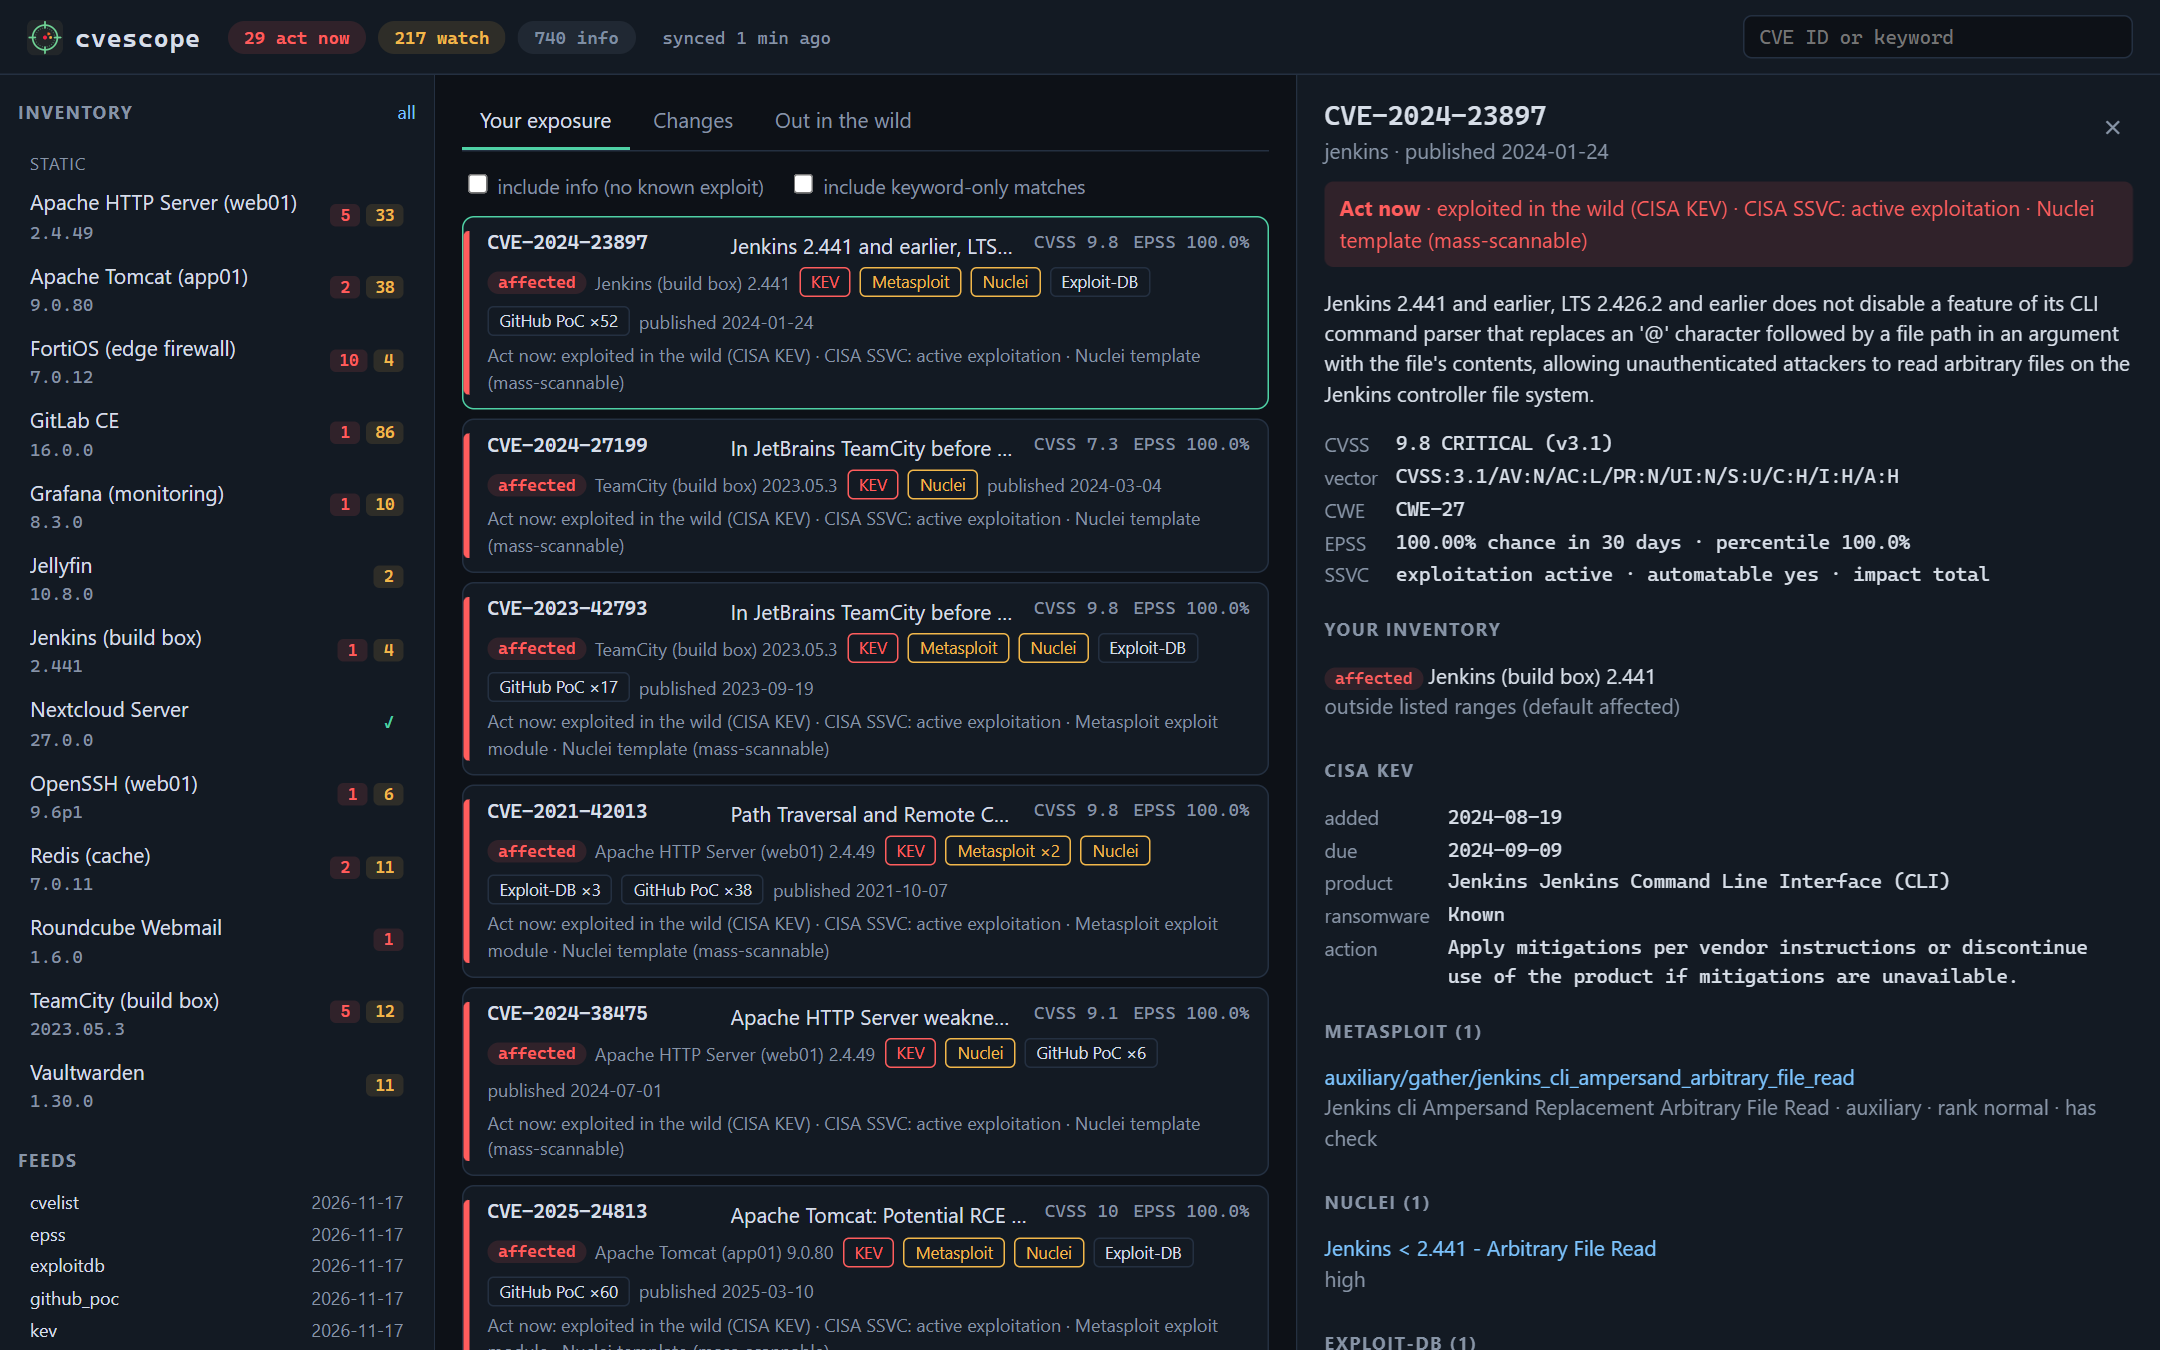
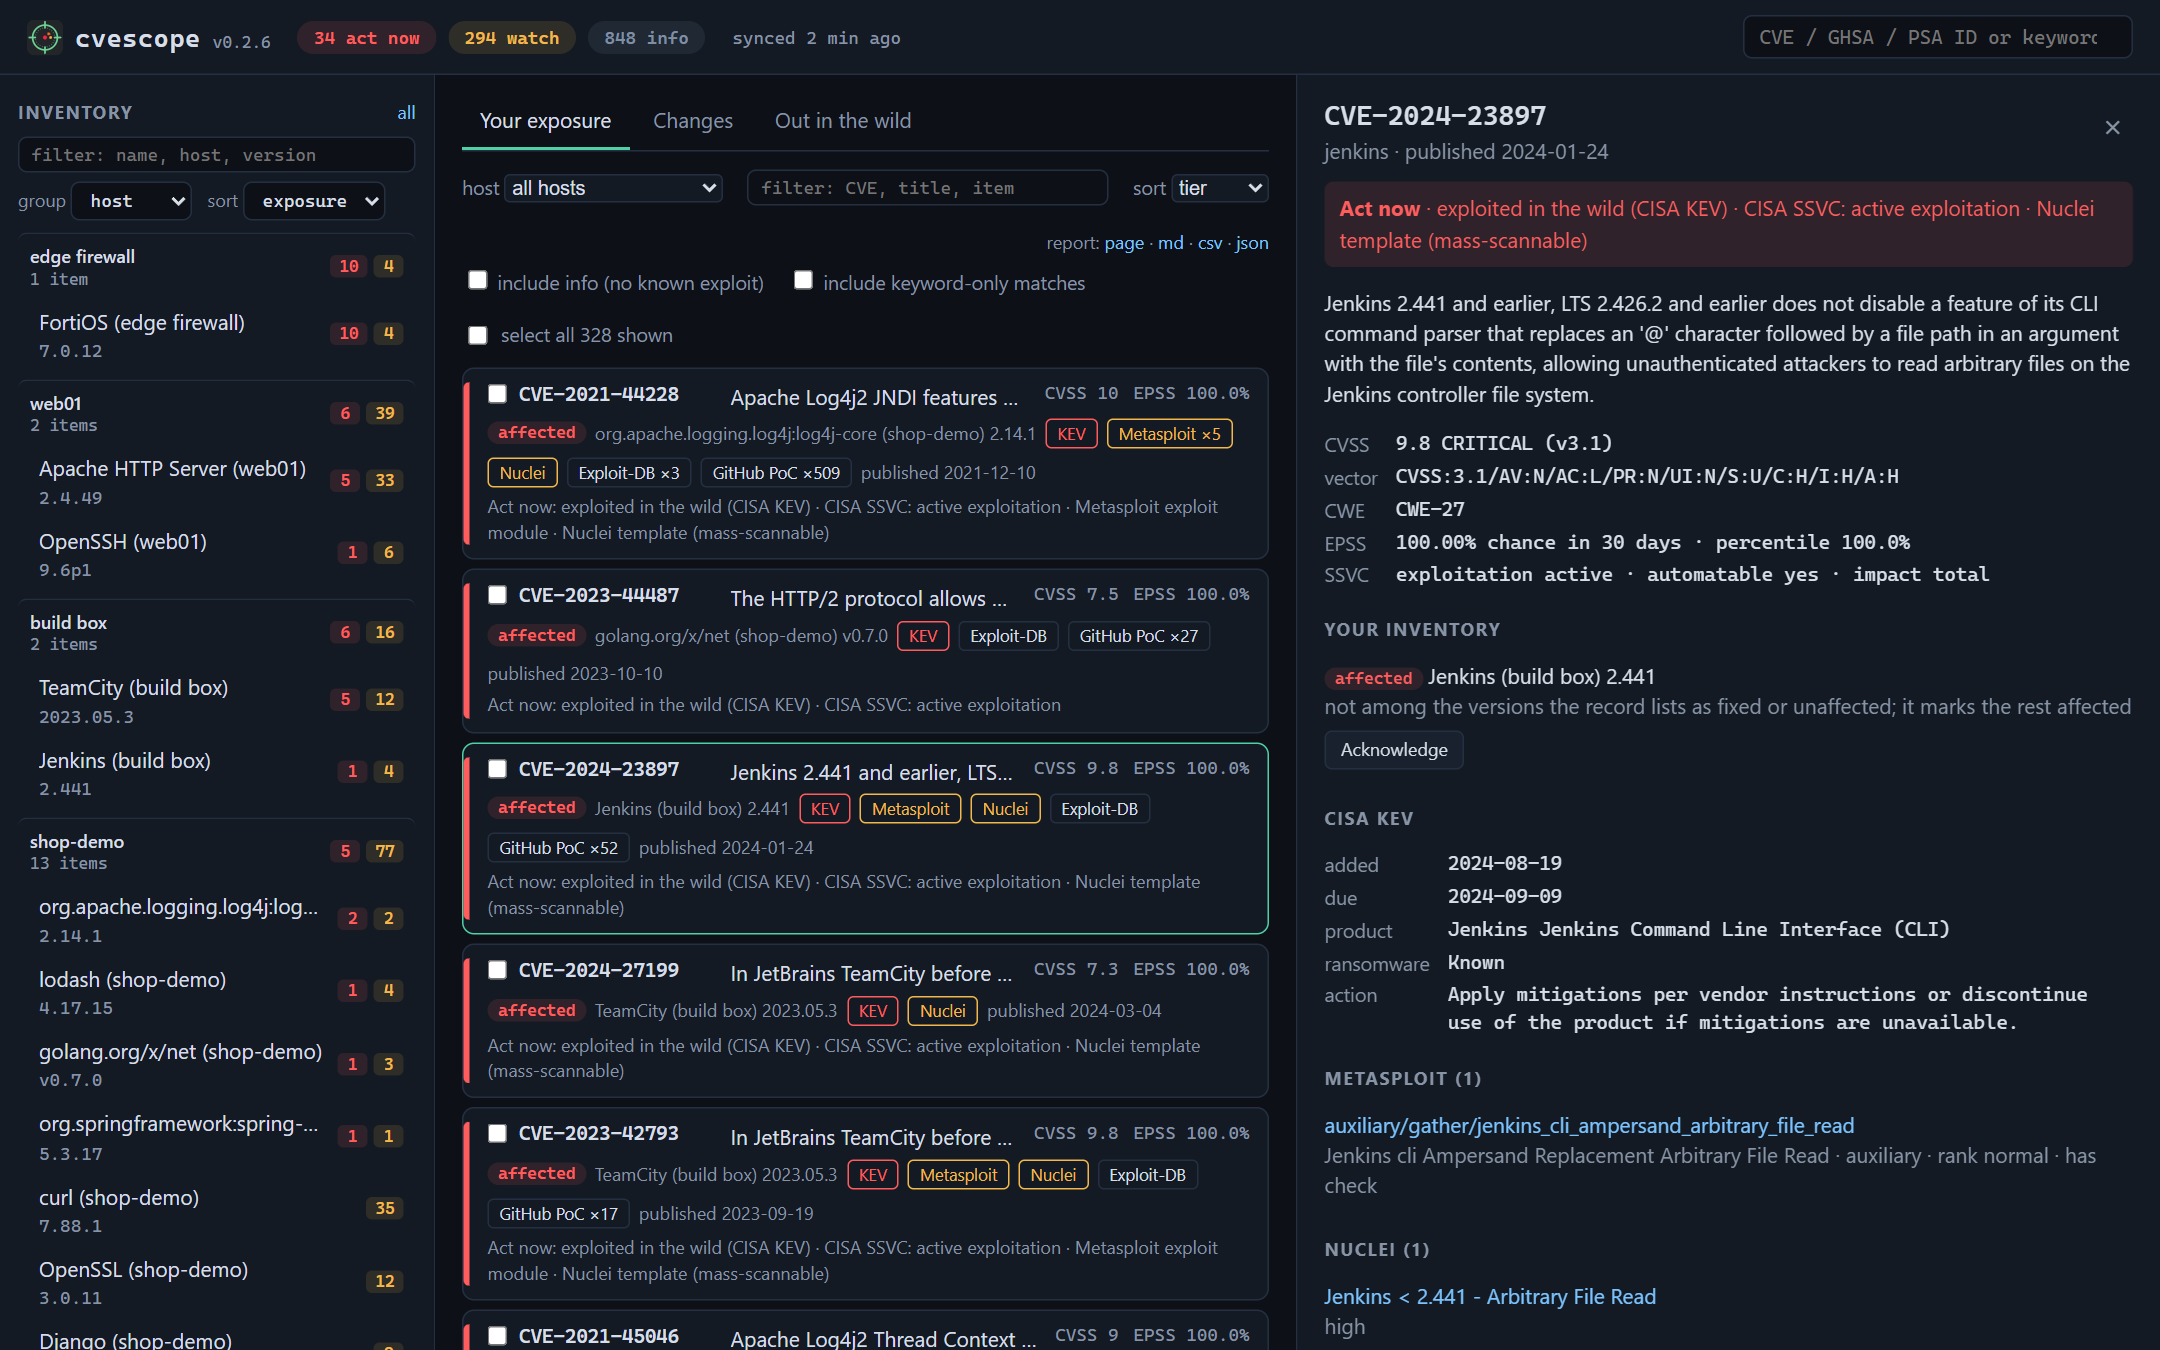
Retake README screenshots from the demo; fix three wordings they showed
Screenshots (examples/demo.toml, a made-up network; no real data):
exposure, detail, exploits and phone retaken with host grouping,
filters, bulk acknowledge, report links and the version label; new
sbom.png (the demo container as a host) and report.png (an HTML
report) for the README's SBOM and Reports sections.

Fixed, as the screenshots showed them:
- a record that lists only fixed/unaffected versions and marks the
  rest affected (Jenkins) gave "outside listed ranges (default
  affected)" for an affected version; it now says the version isn't
  among those listed as fixed and the rest are affected
- the EPSS reason read "EPSS top 0%" at the very top; now "top 1%"
- report titles are cut at a word with an ellipsis, not mid-word

diff --git a/cvescope/report.py b/cvescope/report.py
@@ -37,11 +37,20 @@ def _link(vid: str, refs: list | None = None) -> str:
     return f"https://osv.dev/vulnerability/{vid}"
 
 
+def _clip(s: str, n: int) -> str:
+    """At most n characters, cut at a word with an ellipsis rather than mid-word."""
+    s = " ".join(str(s).split())
+    if len(s) <= n:
+        return s
+    cut = s[:n - 1].rsplit(" ", 1)[0]
+    return cut.rstrip(",;:") + "…"
+
+
 def _finding(r: dict, refs: dict) -> dict:
     a = r.get("ack") or {}
     return {"id": r["cve_id"], "tier": r["tier"], "why": r.get("why") or [], "status": r["status"],
             "host": r.get("host"), "item": r["item_name"], "version": r.get("item_version"),
-            "title": (r.get("title") or r.get("description") or "")[:240], "detail": r.get("detail") or "",
+            "title": _clip(r.get("title") or r.get("description") or "", 240), "detail": r.get("detail") or "",
             "cvss": r.get("cvss"), "epss_pct": r.get("epss_pct"), "flags": query.flag_text(r),
             "published": (r.get("published") or "")[:10], "first_seen": (r.get("first_seen") or "")[:10],
             "ack": {"state": a.get("state"), "note": a.get("note"), "until": a.get("until"),

diff --git a/tests/test_report.py b/tests/test_report.py
@@ -85,6 +85,16 @@ class Build(unittest.TestCase):
         self.assertEqual(json.loads(report.render_json(d))["counts"]["act"], 1)
         self.assertEqual(len(rows), 4)                                           # 2 findings + 1 acknowledged
 
+    def test_titles_cut_at_a_word(self):
+        self.assertEqual(report._clip("allowing unauthenticated attackers to read files", 34),
+                         "allowing unauthenticated…")
+        self.assertEqual(report._clip("short", 34), "short")
+
+    def test_epss_top_never_reads_zero(self):
+        from cvescope import query
+        _, why = query.tier({}, {"cvss": 5}, 0.9996, self.cfg)
+        self.assertEqual(why, ["EPSS top 1%"])
+
     def test_cli_out_with_date(self):
         out = os.path.join(self.tmp, "reports", "r-%Y-%m-%d.html")
         with redirect_stdout(io.StringIO()) as printed:

diff --git a/tests/test_versions.py b/tests/test_versions.py
@@ -116,3 +116,14 @@ class OtherDistroText(unittest.TestCase):
     def test_the_distro_itself_still_counts(self):
         e = {"p": "Fedora", "v": "Fedora Project", "vs": [{"status": "affected", "version": "prior to 31"}]}
         self.assertEqual(eval_entry(e, "30")[0], "affected")
+
+
+class DefaultStatusWording(unittest.TestCase):
+    def test_default_affected_reads_as_affected(self):
+        # Jenkins-style record: only the fixed lines are listed, everything else is affected
+        e = {"ds": "affected", "vs": [{"version": "2.442", "status": "unaffected"},
+                                      {"version": "2.426.3", "lessThan": "2.427", "status": "unaffected"}]}
+        st, why = eval_entry(e, "2.441")
+        self.assertEqual(st, "affected")
+        self.assertNotIn("outside", why)
+        self.assertIn("marks the rest affected", why)

diff --git a/cvescope/versions.py b/cvescope/versions.py
@@ -420,5 +420,8 @@ def eval_entry(entry: dict, version: str | None) -> tuple[str, str]:
         # Read literally that would flag every newer version; they mean "older than fixed".
         return "unaffected", "outside every affected range"
     if ds in ("affected", "unaffected"):
-        return ds, f"outside listed ranges (default {ds})"
+        # e.g. Jenkins lists only fixed/unaffected versions and marks everything else affected
+        if ds == "affected":
+            return ds, "not among the versions the record lists as fixed or unaffected; it marks the rest affected"
+        return ds, "outside every listed range; the record marks the rest unaffected"
     return "unaffected", "outside every listed range"

diff --git a/cvescope/query.py b/cvescope/query.py
@@ -131,7 +131,8 @@ def tier(sig: dict, cve: dict, epss_pct, cfg) -> tuple[str, list[str]]:
     if ssvc == "poc":
         why.append("CISA SSVC: PoC public")
     if epss_pct is not None and epss_pct >= float(cfg["tiers"]["epss_watch_pct"]):
-        why.append(f"EPSS top {100 - epss_pct * 100:.0f}%")
+        top = 100 - epss_pct * 100  # 99.96th percentile -> "top 1%", never "top 0%"
+        why.append(f"EPSS top {max(1, round(top))}%")
     return ("watch" if why else "info"), why
 
 

diff --git a/README.md b/README.md
@@ -228,6 +228,8 @@ a version becomes an item, and each one is checked against the best data there i
 The page groups the components under the SBOM's name, so filtering by host shows one image or
 app at a time. The demo config includes a sample SBOM (`examples/demo-sbom.cdx.json`).
 
+![The demo container's SBOM as a host: Log4Shell, Spring4Shell and lodash, each with the fixed release](https://raw.githubusercontent.com/magikh0e/cvescope/main/docs/sbom.png)
+
 ### Containers, endpoints and websites
 
 - **`docker`** runs `docker ps` (or `podman ps`) locally or through `command_prefix = ["ssh", "host"]`
@@ -435,6 +437,8 @@ scheduled task can keep one report per week. On the page, the **report** links n
 filters give the same thing for what you're looking at: the host you picked, and info only
 when it's included. Feed text is escaped for each format, including spreadsheet formulas in
 CSV.
+
+![An HTML report: counts, then each finding with why it ranks there and what fixes it](https://raw.githubusercontent.com/magikh0e/cvescope/main/docs/report.png)
 
 ## Scheduling
 

diff --git a/CHANGELOG.md b/CHANGELOG.md
@@ -5,6 +5,17 @@ releases are on the [releases page](https://github.com/magikh0e/cvescope/release
 
 ## [Unreleased]
 
+### Changed
+- README screenshots retaken from the demo config: host grouping, filters, bulk acknowledge,
+  report links and the version label, plus new shots of an SBOM host and an HTML report.
+
+### Fixed
+- A record that lists only fixed or unaffected versions and marks the rest affected (Jenkins
+  does this) gave the reason "outside listed ranges (default affected)" for an affected version.
+  It now says the version isn't among those the record lists as fixed, and the rest are affected.
+- Findings in EPSS's very top percentile read "EPSS top 0%"; they read "top 1%" now.
+- Report titles are cut at a word with an ellipsis instead of mid-word.
+
 ## [0.2.6] - 2026-11-17
 
 ### Added
